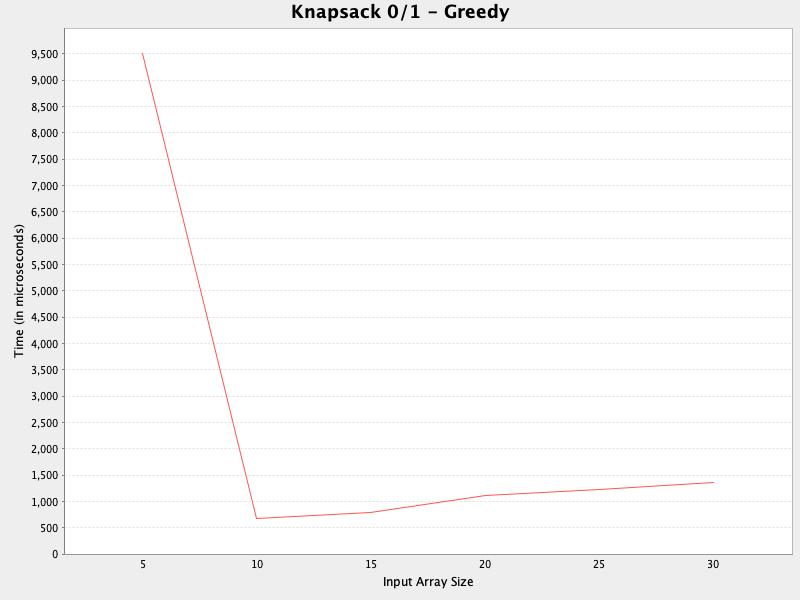
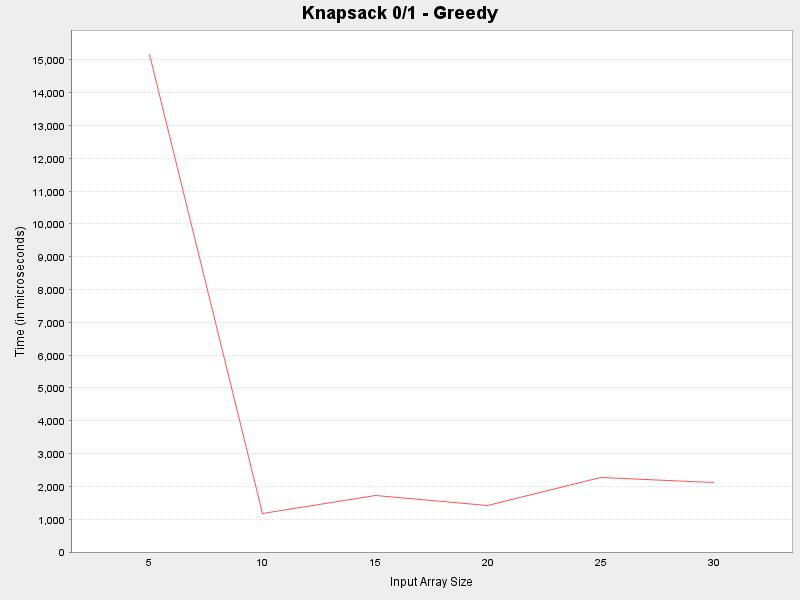
Opp2 (#60)
* graph

* greedy 2nd opp updates

diff --git a/src/Knapsack01/Greedy.java b/src/Knapsack01/Greedy.java
@@ -14,17 +14,12 @@ public class Greedy {
     /**
      * The greedy method for solving the Knapsack 0-1 problem. This method is
      * not guaranteed to return optimal results, especially with larger input
-     * arrays. The associated JUnit tests confirm that with an input array of
-     * size 30, it does not report the optimal solution; however, with an array
-     * of size 5, it does. I used an <a href="https://augustineaykara.github.io/Knapsack-Calculator/">
-     * online K01 calculator</a> to retrieve the optimal solution to the input
-     * array proposed in testGreedyLarge. The reason for this is because the
-     * greedy method does not consider combinations of items; instead, it puts
-     * items into the knapsack sequentially by highest value until the weight
-     * limit is met.
+     * arrays. The reason for this is because the greedy method does not consider
+     * all combinations of items; instead, it puts items into the knapsack
+     * sequentially by highest value-to-weight ratio until the weight limit is met.
      *
-     * @param object The knapsack object.
-     * @return The knapsack object.
+     * @param object The knapsack object
+     * @return runtime
      * @author Cheryl Moser
      */
     public static double greedy(Knapsack object) {
@@ -37,24 +32,33 @@ public class Greedy {
         int limit = object.getMaxWeight();
 
         //output
-        System.out.println("-------Greedy 01Knapsack-------");
+        System.out.println("--------------Greedy 01Knapsack--------------\n");
         System.out.println("Knapsack number: " + object.getKnapsackNumber() +
                 "\nNumber of item options: " + object.getTotalItems() +
                 "\nWeight Capacity: " + object.getMaxWeight());
 
-        //create a priority queue to hold items, sort in decreasing order by
-        //item benefit (key): O(1)
+        //create a priority queue to hold items, sort in non-increasing order by
+        //item benefit (value/weight): O(1)
         PriorityQueue<Map.Entry<Integer,Integer>> items = new PriorityQueue<>(
-                //custom comparator via lambda expression
-                (a,b) -> b.getKey() - a.getKey()
+                //custom comparator via lambda expression ordering by
+                //item benefit (value per unit of weight)
+                (a,b) -> {
+                    double benefitA = (double) a.getKey() / a.getValue();
+                    double benefitB = (double) b.getKey() / b.getValue();
+                    //workaround to return an integer representation of the
+                    //difference between a & b; otherwise the division returns
+                    //a double much to small to cast to int
+                    return (int) ((benefitB - benefitA) * 1000);
+                }
         );
 
         //add values and weights as key:value pair to priority queue.
         //worst case O(n): depends on the length of the weights list
-        System.out.println("Item options (value,weight):");
+        System.out.println("Item options (value, weight, value per unit of weight):");
         for (int i = 0; i < weights.length; i++){
             items.offer(Map.entry(values[i], weights[i]));
-            System.out.println("("+values[i] + ", " + weights[i] + ")");
+            double benefit = (double) values[i] / weights[i];
+            System.out.println(i+1 + ". ("+values[i] + ", " + weights[i] + ", " + String.format("%.3f", benefit) + ")");
         }
 
         //initialize the total weight and value counts
@@ -91,6 +95,7 @@ public class Greedy {
         Iterator<Map.Entry<Integer, Integer>> iterator = knapsackContents.iterator();
         StringBuilder valueOutput = new StringBuilder();
         StringBuilder weightOutput = new StringBuilder();
+        StringBuilder benefitOutput = new StringBuilder();
 
         //iterate through the optimized knapsack and attach item elements to
         //their associated strings
@@ -98,17 +103,20 @@ public class Greedy {
             Map.Entry<Integer,Integer> entry = iterator.next();
             valueOutput.append(entry.getKey());
             weightOutput.append(entry.getValue());
+            benefitOutput.append(String.format("%.3f", (double) entry.getKey()/entry.getValue()));
             if (iterator.hasNext()){
                 valueOutput.append(", ");
                 weightOutput.append(", ");
+                benefitOutput.append(", ");
             }
         }
 
-        //output
+        //printed output
         System.out.println("Knapsack Best Value: " + totValue +
                 "\nKnapsack Best Weight: " + totWeight +
-                "\nKnapsack contains items with values of " + valueOutput +
-                "\n    and weights of " + weightOutput);
+                "\nKnapsack contains items with values of (" + valueOutput +
+                ")\nweights of (" + weightOutput +
+                ")\nand benefit ratios of (" + benefitOutput + ")");
 
         //capture end time
         long t1 = System.nanoTime();

diff --git a/test/Knapsack01/GreedyTest.java b/test/Knapsack01/GreedyTest.java
@@ -2,11 +2,12 @@ package Knapsack01;
 
 import ProjectTools.Knapsack;
 import org.junit.Test;
+
 import java.io.ByteArrayOutputStream;
 import java.io.PrintStream;
+
 import static Knapsack01.Greedy.greedy;
-import static org.junit.Assert.assertFalse;
-import static org.junit.Assert.assertTrue;
+import static org.junit.jupiter.api.Assertions.assertTrue;
 
 /**
  * Unit tests for the K01 greedy method.
@@ -18,7 +19,7 @@ public class GreedyTest {
 
     /**
      * Tests the K01 greedy method with a small input array.
-     * Asserts a reasonable runtime value, and asserts correct optimal
+     * Asserts a runtime value greater than 0, and asserts correct optimal
      * weight and value results of the knapsack (values captured from the print
      * stream of System.out).
      * @author Cheryl Moser
@@ -60,9 +61,9 @@ public class GreedyTest {
 
     /**
      * Tests the K01 greedy method with a large input array.
-     * Asserts a reasonable runtime value, and asserts that the
+     * Asserts a runtime value greater than 0, and asserts that the
      * weight and value results of the knapsack (values captured from the print
-     * stream of System.out) will not be the optimal solution.
+     * stream of System.out) will be the optimal solution.
      * @author Cheryl Moser
      */
     @Test
@@ -96,8 +97,8 @@ public class GreedyTest {
 
         //assertions
         assertTrue(runtime > 0);
-        assertFalse(printedOutput.contains("Knapsack Best Value: 692")); //expected optimal--> 692
-        assertFalse(printedOutput.contains("Knapsack Best Weight: 198")); //expected optimal--> 198
+        assertTrue(printedOutput.contains("Knapsack Best Value: 692")); //expected optimal--> 692
+        assertTrue(printedOutput.contains("Knapsack Best Weight: 198")); //expected optimal--> 198
         //optimal values calculated using an online calculator. See source in the
         //class javadoc above
 

diff --git a/README.md b/README.md
@@ -119,6 +119,7 @@ JFreeChart.
 <img src = "images/fracK_dp.jpg" width="600">
 <img src = "images/k01_bruteForce.jpg" width="600">
 <img src = "images/k01_greedy.jpg" width="600">
+<img src = "images/k01_dp.jpg" width="600">
 <hr>
 
 ## Performance Analysis
@@ -506,14 +507,20 @@ making it preferable in many cases.
 <dl>
     <dt>01 Dynamic VS Fractional Greedy</dt>
     <dd><cite>Author: Cheryl Moser</cite><br><br>
-    K01 Dynamic Programming method is inconclusive.
-    </dd>
+    K01 Dynamic Programming method is inconclusive, though it currently shows
+    as being one of the best performers of the bunch with even the largest input size
+    keeping a runtime of under 24 microseconds. FracK Greedy seems to be the clear
+    winner here, with very low runtimes that hold steady across all input sizes.
+</dd>
 </dl>
 <hr>
 <dl>
     <dt>01 Dynamic VS 01 Brute</dt>
     <dd><cite>Author: Cheryl Moser</cite><br><br>
-    K01 Dynamic Programming method is inconclusive.
+    K01 Dynamic Programming method is inconclusive, though it currently shows
+    as being one of the best performers of the bunch with even the largest input size
+    keeping a runtime of under 24 microseconds. 01 Brute shows a steep exponential
+    curve, as expected.
     </dd>
 </dl>
 <hr>
@@ -528,8 +535,7 @@ making it preferable in many cases.
     conducted this test for the K01 Greedy algorithm only.
     <br><br>
     Discarding the first plot point, greedy performed better across the board in this 
-    comparison, holding steady around 300ms for all array sizes except size = 25. 
-    This point spiked slightly to just above 500ms in the test iteration that I analyzed. 
+    comparison, holding steady between 800 - 2100 ms for all array sizes.
     The greedy plot appears to be a curve resembling an O(n log n) curve, though that is
     somewhat inconclusive without more data points to the right; the brute force 
     plot shows an exponential curve.
@@ -545,7 +551,7 @@ making it preferable in many cases.
     <ul>
         <li>Brute Force --> Expectation: O(2<sup>n</sup>) for both K01 & FracK</li>
         <li>Greedy --> O(n log n) for both K01 & FracK; however, we know that 
-        it will produce suboptimal results when applied to K01</li>
+        it may produce suboptimal results when applied to K01</li>
         <li>Dynamic Programming --> 01 O(nW), where W = the weight limit of the knapsack
             | FracK exponential similar to O(2<sup>n</sup>)</li>
     </ul></dd>
@@ -635,20 +641,17 @@ making it preferable in many cases.
 <dd><cite>Author: Cheryl Moser</cite>
     <dd>
     <strong>Description</strong>: This method is a modified version of the greedy method for the fractional knapsack. 
-    It is not guaranteed to return optimal results, especially with larger input arrays. 
-    The Junit tests associated with this method confirm that with an input array of size 30, 
-    it does not report the optimal solution; however, with an array of size 5, it did. 
-    In designing the tests, an online calculator (https://augustineaykara.github.io/Knapsack-Calculator/) 
-    was used to find the actual optimized profit and weight for the test input. The 
-    greedy method for this problem is not optimal because it does not consider 
+    It is not guaranteed to return optimal results, especially with larger input arrays.
+    The greedy method for this problem is not optimal because it does not consider all
     combinations of items; instead, it puts items into the knapsack sequentially by 
-    highest value until the weight limit is met.
+    highest value-to-weight ratio until the weight limit is met.
     <br><br>
     <strong>Methods</strong>: A priority queue was used in combination with a custom comparator for holding 
-    value-weight pairs in decreasing order by value. A hash set was used to store 
+    value-weight pairs in non-increasing order by the value/weight ratio. A hash set was used to store 
     the items that were added to the knapsack. The method iterates through the priority 
-    queue, removing the highest value entry first and adding it to the knapsack until 
-    the queue is empty, or until the weight limit is met.
+    queue, removing the highest value-to-weight entry first and adding it to the knapsack until 
+    the queue is empty, or until the weight limit is met. If the addition of an item 
+    exceeds the weight limit, it is discarded and the next item is considered.
     <br><br>
     <strong>Analysis</strong>: The time complexity of this method is O(n log n). This is due to the dequeue 
     operation nested within the priority queue iterator operation. The iterator operation 
